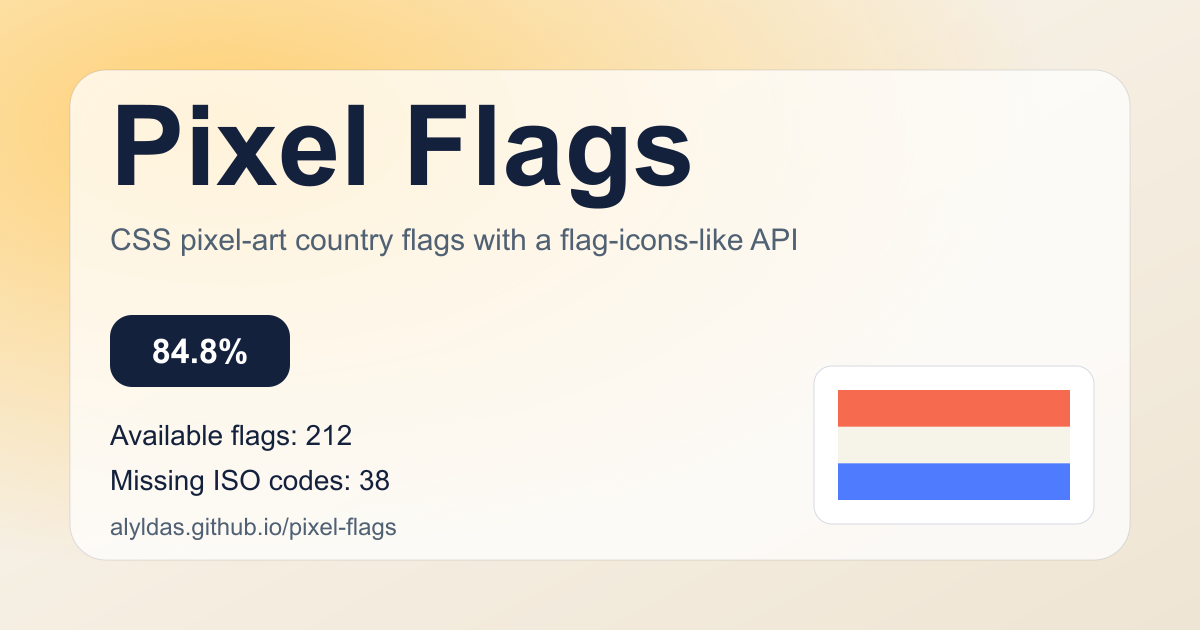
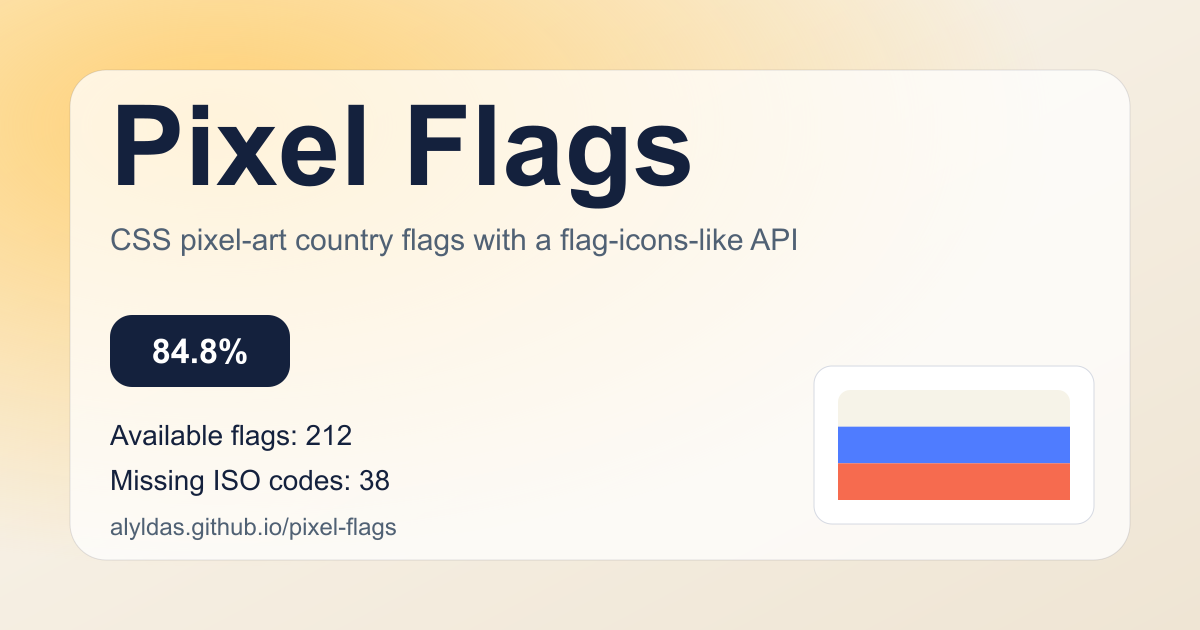
fix: update previews and pages deployment

Changed region(s): [[0.6783, 0.6032, 0.8942, 0.8143]]

diff --git a/scripts/site.js b/scripts/site.js
@@ -48,8 +48,8 @@ function buildFavicon() {
 <svg xmlns="http://www.w3.org/2000/svg" viewBox="0 0 64 64" role="img" aria-label="Pixel Flags">
   <rect width="64" height="64" rx="14" fill="#14213d"/>
   <rect x="10" y="12" width="44" height="16" rx="3" fill="#f6f3e8"/>
-  <rect x="10" y="12" width="44" height="5.33" fill="#f66b4f"/>
-  <rect x="10" y="22.67" width="44" height="5.33" fill="#4f7cff"/>
+  <rect x="10" y="17.33" width="44" height="5.34" fill="#4f7cff"/>
+  <rect x="10" y="22.67" width="44" height="5.33" fill="#f66b4f"/>
   <rect x="10" y="34" width="44" height="18" rx="3" fill="#ffcc66"/>
   <path d="M18 46V38h8.4c4.9 0 7.8 1.6 7.8 5.7S31.3 50 26.4 50H22v4h-4zm4-3h4.1c2.7 0 4-.4 4-2.2 0-1.7-1.3-2.1-4-2.1H22v4.3zm14 7V38h7.8c5.8 0 9.2 1.7 9.2 6.1 0 4.6-3.4 6.4-9.2 6.4H36zm4-3.4h3.3c3.6 0 5.7-.7 5.7-3.8 0-3-2.1-3.5-5.7-3.5H40v7.3z" fill="#14213d"/>
 </svg>
@@ -86,8 +86,8 @@ function buildSocialCardSvg(report) {
   <g transform="translate(814 366)">
     <rect x="0" y="0" width="280" height="158" rx="18" fill="#ffffff" stroke="#d5d9e2"/>
     <rect x="24" y="24" width="232" height="110" rx="12" fill="#f6f3e8"/>
-    <rect x="24" y="24" width="232" height="36.67" fill="#f66b4f"/>
-    <rect x="24" y="97.33" width="232" height="36.67" fill="#4f7cff"/>
+    <rect x="24" y="60.67" width="232" height="36.66" fill="#4f7cff"/>
+    <rect x="24" y="97.33" width="232" height="36.67" fill="#f66b4f"/>
   </g>
 </svg>
 `;
@@ -539,13 +539,11 @@ function buildSiteHtml(entries, coverage) {
             </p>
             <div class="sample-row">
               <span class="badge"><span class="pf pf-ru" aria-hidden="true"></span><code>pf pf-ru</code></span>
-              <span class="badge"><span class="pf pf-jp" aria-hidden="true"></span><code>pf pf-jp</code></span>
-              <span class="badge"><span class="pf pf-br" aria-hidden="true"></span><code>pf pf-br</code></span>
             </div>
             <div class="hero__code">
               <pre><code>&lt;link rel="stylesheet" href="./css/pixel-flags.css"&gt;
 &lt;span class="pf pf-ru" role="img" aria-label="Russia"&gt;&lt;/span&gt;
-&lt;span class="pf pf-jp" style="--pf-height: 2rem" aria-label="Japan"&gt;&lt;/span&gt;</code></pre>
+&lt;span class="pf pf-ru" style="--pf-height: 2rem" aria-label="Russia"&gt;&lt;/span&gt;</code></pre>
             </div>
           </div>
           <aside class="hero__stats">
@@ -580,7 +578,7 @@ function buildSiteHtml(entries, coverage) {
           <div class="legend">
             <p>
               Add <code>.pf</code> to create the inline flag box. Then add a country modifier
-              like <code>.pf-us</code> or <code>.pf-ua</code>. The flags use
+              like <code>.pf-ru</code>. The flags use
               <code>background-image</code>, so the HTML stays empty and portable.
             </p>
             <p>

diff --git a/site/index.html b/site/index.html
@@ -397,13 +397,11 @@
             </p>
             <div class="sample-row">
               <span class="badge"><span class="pf pf-ru" aria-hidden="true"></span><code>pf pf-ru</code></span>
-              <span class="badge"><span class="pf pf-jp" aria-hidden="true"></span><code>pf pf-jp</code></span>
-              <span class="badge"><span class="pf pf-br" aria-hidden="true"></span><code>pf pf-br</code></span>
             </div>
             <div class="hero__code">
               <pre><code>&lt;link rel="stylesheet" href="./css/pixel-flags.css"&gt;
 &lt;span class="pf pf-ru" role="img" aria-label="Russia"&gt;&lt;/span&gt;
-&lt;span class="pf pf-jp" style="--pf-height: 2rem" aria-label="Japan"&gt;&lt;/span&gt;</code></pre>
+&lt;span class="pf pf-ru" style="--pf-height: 2rem" aria-label="Russia"&gt;&lt;/span&gt;</code></pre>
             </div>
           </div>
           <aside class="hero__stats">
@@ -438,7 +436,7 @@
           <div class="legend">
             <p>
               Add <code>.pf</code> to create the inline flag box. Then add a country modifier
-              like <code>.pf-us</code> or <code>.pf-ua</code>. The flags use
+              like <code>.pf-ru</code>. The flags use
               <code>background-image</code>, so the HTML stays empty and portable.
             </p>
             <p>

diff --git a/test/build.test.js b/test/build.test.js
@@ -39,6 +39,18 @@ test("build generates css and html outputs", async () => {
   }
 });
 
+test("generated brand images use the Russian flag as the representative flag", async () => {
+  await buildProject();
+
+  const favicon = fs.readFileSync(FAVICON_PATH, "utf8");
+  const socialCard = fs.readFileSync(SOCIAL_CARD_SVG_PATH, "utf8");
+
+  assert.match(favicon, /y="17\.33" width="44" height="5\.34" fill="#4f7cff"/);
+  assert.match(favicon, /y="22\.67" width="44" height="5\.33" fill="#f66b4f"/);
+  assert.match(socialCard, /y="60\.67" width="232" height="36\.66" fill="#4f7cff"/);
+  assert.match(socialCard, /y="97\.33" width="232" height="36\.67" fill="#f66b4f"/);
+});
+
 test("generated css includes one rule per flag asset", async () => {
   await buildProject();
 
@@ -91,4 +103,14 @@ test("generated site contains cards and source attribution", async () => {
     html,
     new RegExp(`"softwareVersion": "${PACKAGE_VERSION.replace(/[.*+?^${}()|[\]\\]/g, "\\$&")}"`)
   );
+});
+
+test("generated site uses Russia for representative flag examples", async () => {
+  await buildProject();
+
+  const html = fs.readFileSync(HTML_PATH, "utf8");
+
+  assert.match(html, /<span class="badge"><span class="pf pf-ru"/);
+  assert.match(html, /aria-label="Russia"/);
+  assert.match(html, /like <code>\.pf-ru<\/code>/);
 });

diff --git a/README.md b/README.md
@@ -42,14 +42,14 @@ import "./app.css";
 ```
 
 ```html
-<span class="pf pf-br" aria-label="Brazil"></span>
+<span class="pf pf-ru" aria-label="Russia"></span>
 ```
 
 ### Plain HTML
 
 ```html
 <link rel="stylesheet" href="./css/pixel-flags.css" />
-<span class="pf pf-us" role="img" aria-label="United States"></span>
+<span class="pf pf-ru" role="img" aria-label="Russia"></span>
 ```
 
 ### Sizing
@@ -57,8 +57,8 @@ import "./app.css";
 Flags scale with surrounding `font-size`, or you can set an explicit CSS variable:
 
 ```html
-<span class="pf pf-jp" style="font-size: 2rem" role="img" aria-label="Japan"></span>
-<span class="pf pf-jp" style="--pf-height: 2rem" role="img" aria-label="Japan"></span>
+<span class="pf pf-ru" style="font-size: 2rem" role="img" aria-label="Russia"></span>
+<span class="pf pf-ru" style="--pf-height: 2rem" role="img" aria-label="Russia"></span>
 ```
 
 ### Accessibility
@@ -66,13 +66,13 @@ Flags scale with surrounding `font-size`, or you can set an explicit CSS variabl
 If a flag conveys meaning, add `role="img"` and an `aria-label`:
 
 ```html
-<span class="pf pf-jp" role="img" aria-label="Japan"></span>
+<span class="pf pf-ru" role="img" aria-label="Russia"></span>
 ```
 
 If it is decorative only:
 
 ```html
-<span class="pf pf-fr" aria-hidden="true"></span>
+<span class="pf pf-ru" aria-hidden="true"></span>
 ```
 
 ## What's Included
@@ -167,7 +167,7 @@ npm run verify
 1. Make sure `package.json` version is the intended release version.
 2. Update `CHANGELOG.md` for that version.
 3. Run `npm run verify`.
-4. Run `npm run smoke` in an environment where Playwright Chromium can launch.
+4. Run `npm run smoke` in an environment where Playwright Chrome for Testing can launch.
 5. Push the release commit to `main`.
 6. Create and push a matching tag such as `v0.1.0`.
 7. Confirm `.github/workflows/release.yml` completed and, if `NPM_TOKEN` is configured, verify the npm publish result.
